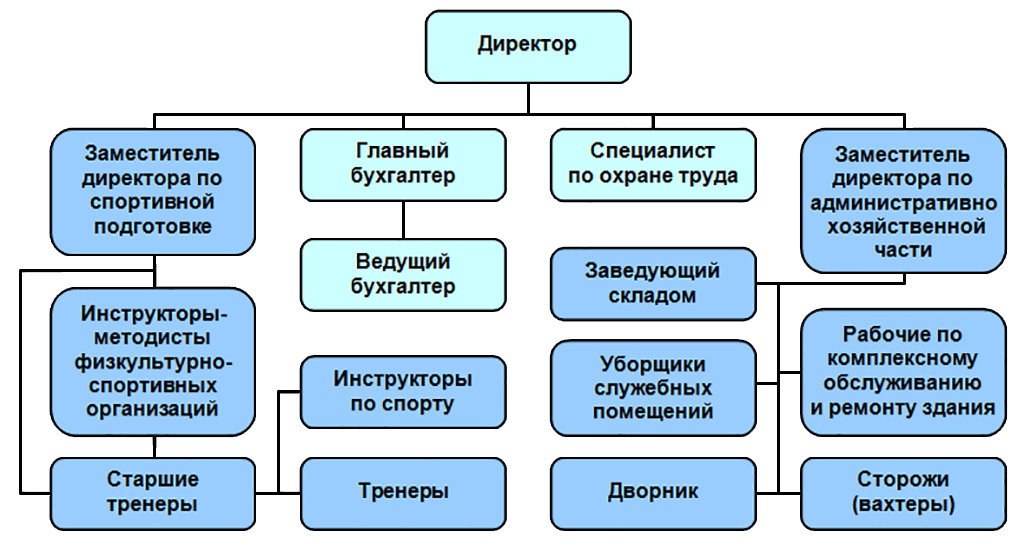
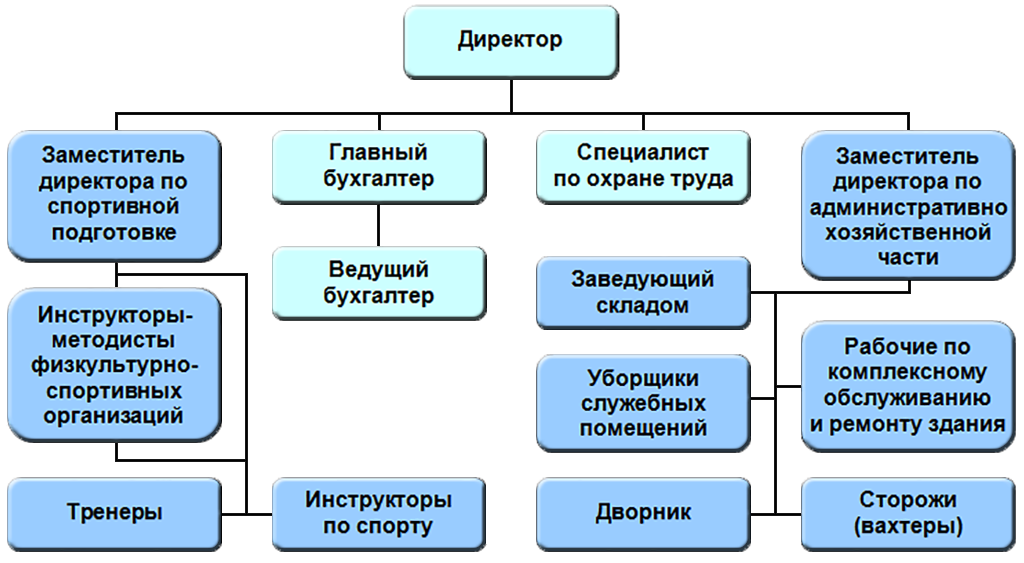
Starshih net

diff --git a/sost.html b/sost.html
@@ -43,8 +43,8 @@
 <tr><td>Мурин Артём Владимирович</td>		<td>04.10.1985</td>	<td>Заместитель директора по административно-хозяйственной части</td>	<td>Высшее, ВятГУ</td>	<td>7/0</td></tr>
 <tr><td>Королёва Оксана Михайловна</td>		<td>11.07.1980</td>	<td>Главный бухгалтер</td>	<td>Высшее, ВятГУ</td>	<td>12/0</td></tr>
 <tr><th colspan=5>Отделение легкой атлетики</th></tr>
-<tr><td>Яровиков Михаил Николаевич</td>		<td>16.01.1971</td>	<td>Старший тренер</td>	<td>Высшее, КГПИ</td>	<td>26/26</td></tr>
-<tr><td>Рябова Эльвира Борисовна</td>		<td>04.01.1971</td>	<td>Старший тренер</td>	<td>Средне-професс. Орловский колледж педагогики</td>	<td>28/26</td></tr>
+<tr><td>Яровиков Михаил Николаевич</td>		<td>16.01.1971</td>	<td>Тренер</td>	<td>Высшее, КГПИ</td>	<td>26/26</td></tr>
+<tr><td>Рябова Эльвира Борисовна</td>		<td>04.01.1971</td>	<td>Тренер</td>	<td>Средне-професс. Орловский колледж педагогики</td>	<td>28/26</td></tr>
 <tr><td>Ситникова Татьяна Ивановна</td>		<td>09.05.1949</td>	<td>Тренер</td>	<td>Высшее, Смоленский инс-т ф/к</td>	<td>44/44</td></tr>
 <tr><td>Следникова Екатерина Леонидовна</td>	<td>28.05.1979</td>	<td>Тренер</td>	<td>Высшее, ВГПУ</td>	<td>17/17</td></tr>
 <tr><td>Жерносек Елена Владимировна</td>		<td>18.01.1970</td>	<td>Тренер</td>	<td>Высшее, Великолукский гос. инс-т ф/к</td>	<td>25/16</td></tr>
@@ -59,8 +59,8 @@
 <tr><td>Ямшанова Надежда Анатольевна</td>		<td>11.11.1961</td>	<td>Инструктор по спорту (Совместитель)</td>	<td>Средне-професс. Халтуринское педучилище</td>	<td>29/29</td></tr>
 <tr><td>Трямкин Александр Александрович</td>		<td>29.11.1961</td>	<td>Тренер (Совместитель)</td>	<td>Высшее</td>	<td>34/34</td></tr>
 <tr><th colspan=5>Отделение волейбола</th></tr>
-<tr><td>Трефилов Владимир Николаевич</td>		<td>28.05.1949</td>	<td>Старший тренер</td>	<td>Средне-професс. Ухтинский лесотехн. техникум</td>	<td>24/24</td></tr>
-<tr><td>Глушков Юрий Александрович</td>		<td>29.09.1968</td>	<td>Старший тренер</td>	<td>Высшее, ВГСХА</td>	<td>21/10</td></tr>
+<tr><td>Трефилов Владимир Николаевич</td>		<td>28.05.1949</td>	<td>Тренер</td>	<td>Средне-професс. Ухтинский лесотехн. техникум</td>	<td>24/24</td></tr>
+<tr><td>Глушков Юрий Александрович</td>		<td>29.09.1968</td>	<td>Тренер</td>	<td>Высшее, ВГСХА</td>	<td>21/10</td></tr>
 <tr><td>Егорова Людмила Николаевна</td>		<td>18.08.1949</td>	<td>Тренер</td>	<td>Высшее, КГПИ</td>	<td>40/40</td></tr>
 <tr><td>Муракова Анна Сергеевна</td>	<td>11.08.1998</td>	<td>Инструктор по спорту</td>	<td>Высшее, ВятГУ</td>	<td>0/0</td></tr>
 <tr><td>Медведев Андрей Николаевич</td>		<td>20.02.1984</td>	<td>Тренер</td>	<td>Высшее, ВГУ</td>	<td>5/2</td></tr>
